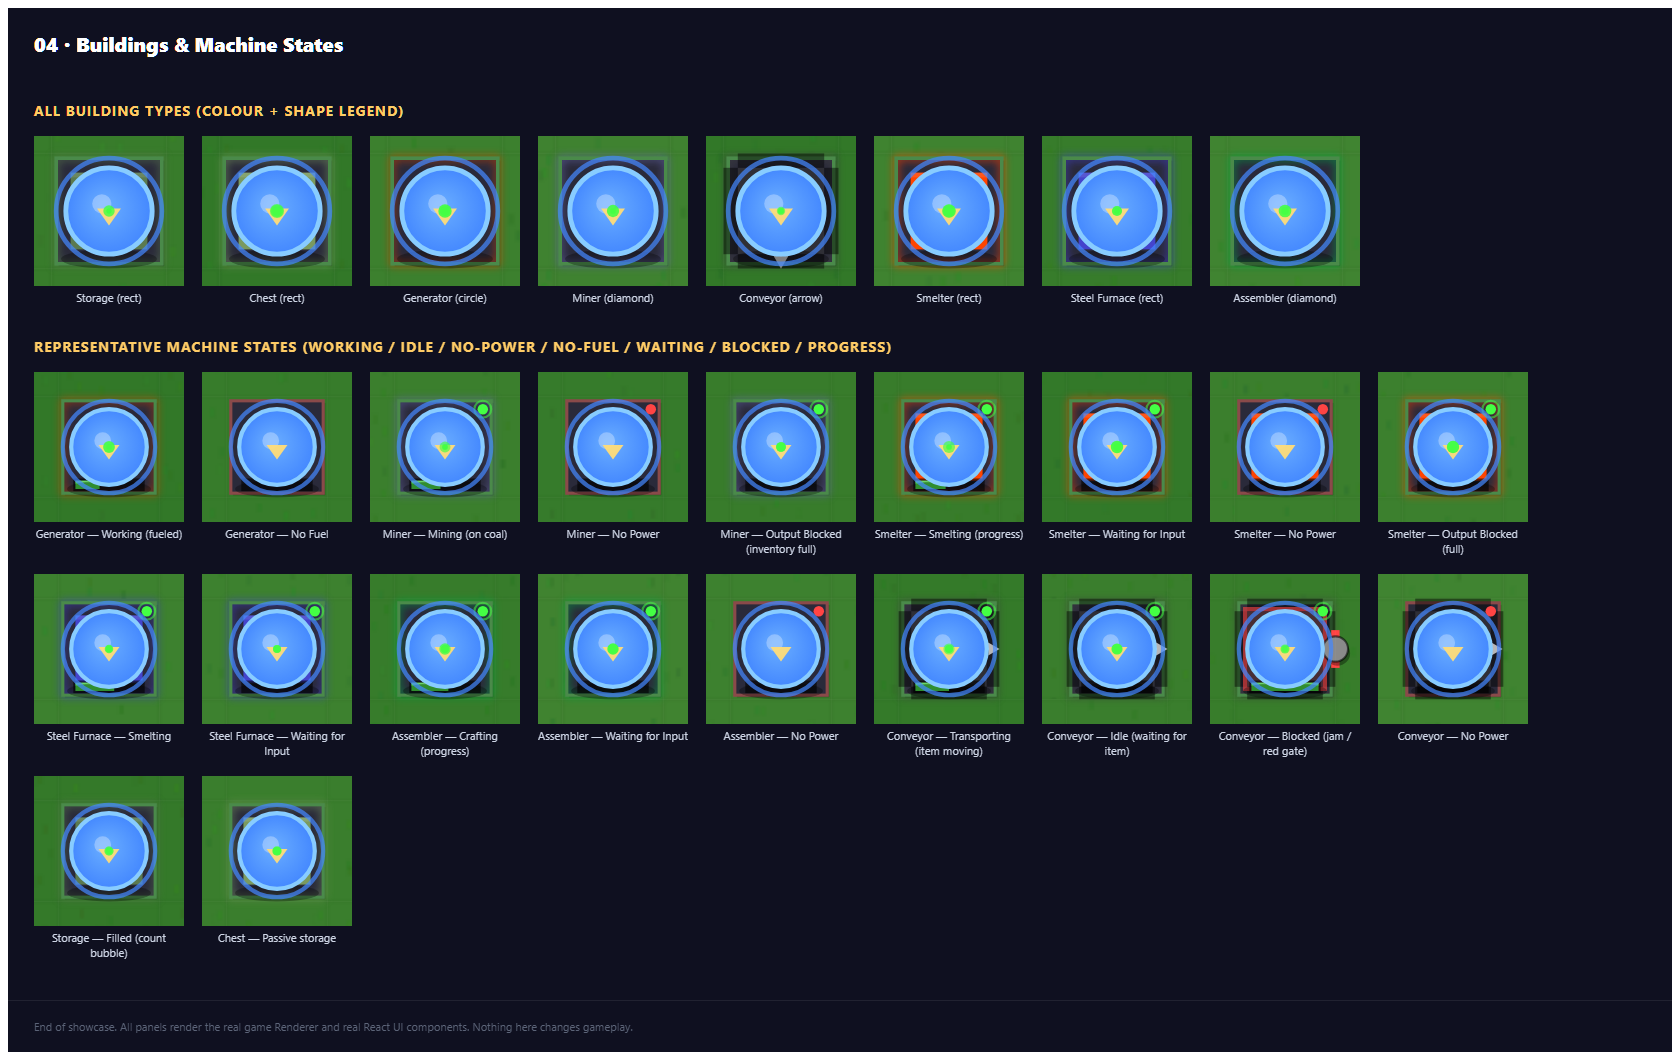
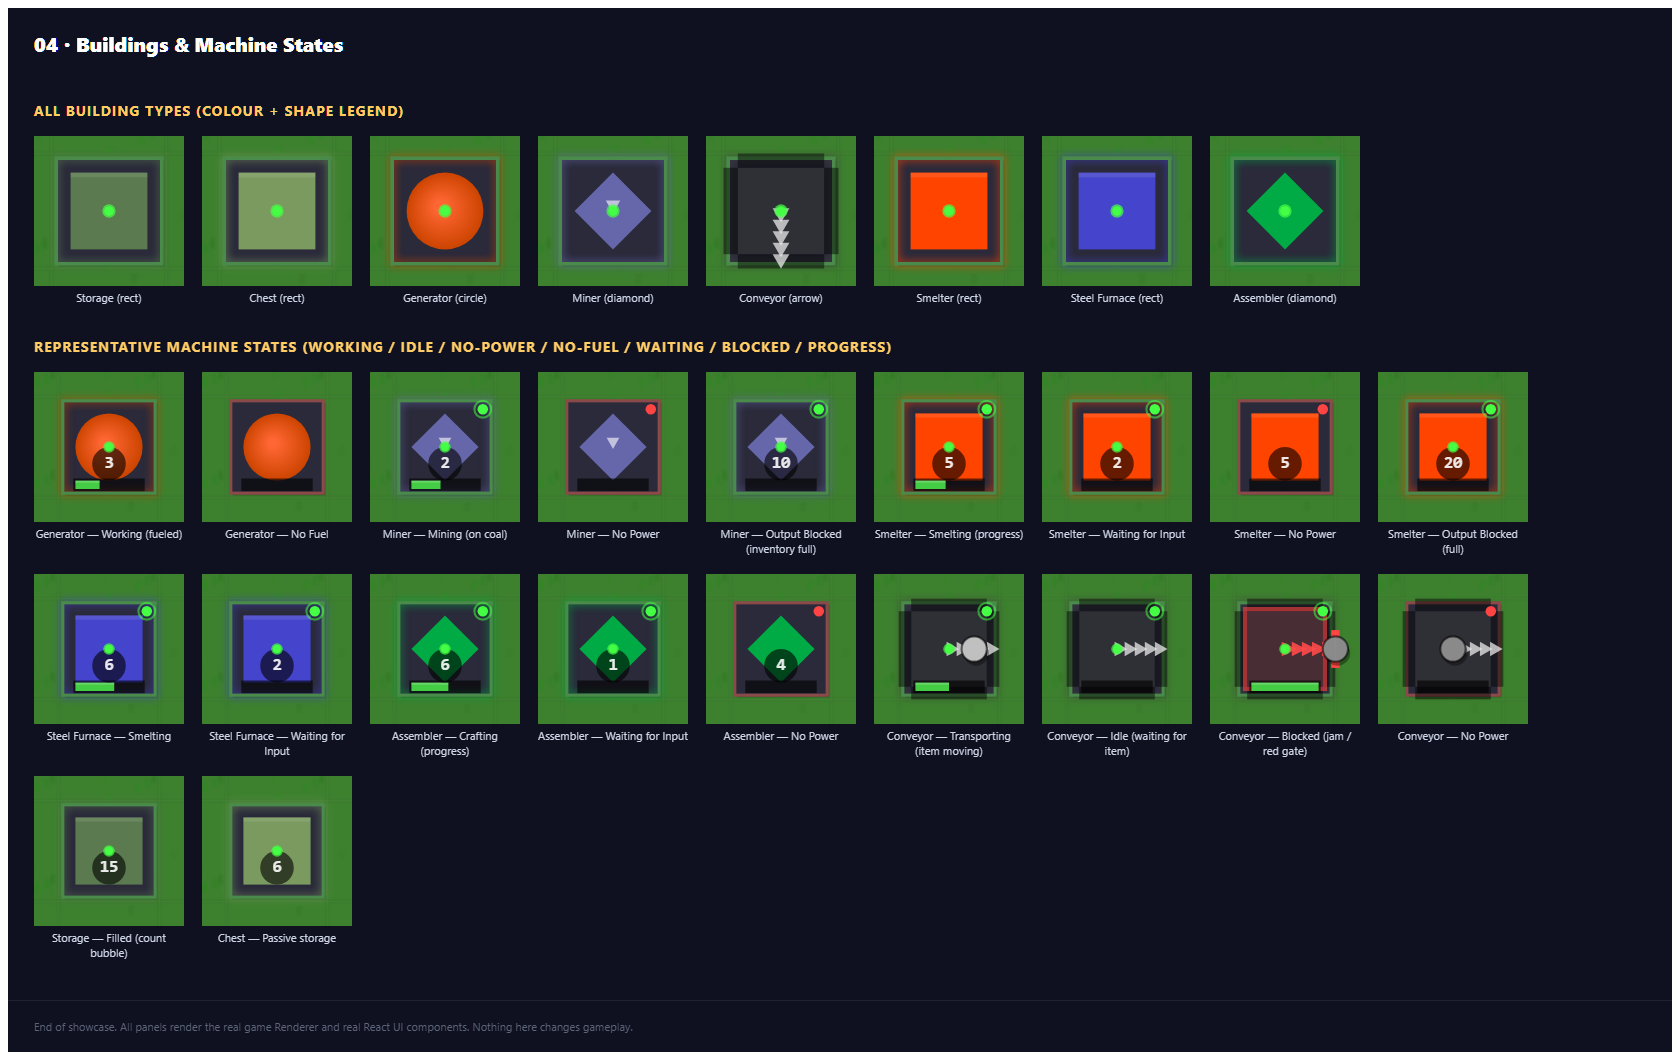
fix(design-handoff): isolate player from showcase boards and make screenshots bit-deterministic
- Renderer: gate player drawing behind showPlayer option; seed cosmetic
  terrain and particle PRNGs (LcgRandom) so rendering is reproducible
- scenes.ts: isolatedOptions/gameplayOptions helpers keep exposed boards
  player-free while gameplay/preview scenes keep the player
- showcase.tsx: wire options per swatch/frame; label the player example;
  stamp data-show-player on canvases for scripted verification
- capture-showcase.mjs: CAPTURE filter + player-isolation verification
- tests: regression suite verifying isolation contract
- regenerate all 10 screenshots (identical across repeated captures)

diff --git a/outpost/src/showcase/showcase.tsx b/outpost/src/showcase/showcase.tsx
@@ -27,6 +27,8 @@ import {
   frameBoard,
   frameTile,
   showcaseOptions,
+  isolatedOptions,
+  gameplayOptions,
 } from './scenes';
 import { Dir, BUILDING_NAMES, BUILDING_DEFS, ITEM_COLORS } from '../types';
 import type { Item, PowerSummary, DirectionValue } from '../types';
@@ -62,7 +64,11 @@ function WorldCanvas({
     canvas.height = height;
     const renderer = new Renderer(canvas);
     const { engine, camera, options } = buildScene();
-    renderer.render(engine.map, engine.player, camera, options ?? showcaseOptions());
+    const resolved = options ?? showcaseOptions();
+    renderer.render(engine.map, engine.player, camera, resolved);
+    // Deterministic marker for the screenshot script / QA: records whether this
+    // canvas rendered the player (true) or is an isolated asset board (false).
+    canvas.dataset.showPlayer = String(resolved.showPlayer !== false);
   }, [width, height, buildScene]);
   return <canvas ref={ref} style={{ display: 'block', imageRendering: 'pixelated' }} />;
 }
@@ -74,17 +80,19 @@ function Swatch({
   width = 150,
   height = 150,
   zoom = 2.4,
+  options,
 }: {
   build: (e: GameEngine) => void;
   caption: string;
   width?: number;
   height?: number;
   zoom?: number;
+  options?: RenderOptions;
 }) {
   const scene = () => {
     const e = makeEngine();
     build(e);
-    return { engine: e, camera: frameTile(60, 60, zoom, width, height), options: showcaseOptions() };
+    return { engine: e, camera: frameTile(60, 60, zoom, width, height), options: isolatedOptions(options) };
   };
   return (
     <figure style={{ margin: 0, display: 'flex', flexDirection: 'column', alignItems: 'center', gap: 4 }}>
@@ -117,7 +125,7 @@ function TileBoard({
     const e = makeEngine();
     clearBox(e, origin.x, origin.y, cols, rows);
     setup(e);
-    return { engine: e, camera, options: { ...showcaseOptions(), ...(options ?? {}) } };
+    return { engine: e, camera, options: isolatedOptions(options) };
   };
   return (
     <figure style={{ margin: 0, display: 'flex', flexDirection: 'column', alignItems: 'center', gap: 4 }}>
@@ -158,7 +166,7 @@ function Stage({
       }}
     >
       {scene && (
-        <WorldCanvas buildScene={() => ({ engine: scene.engine, camera: scene.camera, options: showcaseOptions() })} width={width} height={height} />
+        <WorldCanvas buildScene={() => ({ engine: scene.engine, camera: scene.camera, options: gameplayOptions() })} width={width} height={height} />
       )}
       {children}
     </div>
@@ -178,11 +186,11 @@ function Section({ id, title, children }: { id: string; title: string; children:
   );
 }
 
-function SwatchRow({ items }: { items: { caption: string; build: (e: GameEngine) => void; zoom?: number; width?: number; height?: number }[] }) {
+function SwatchRow({ items }: { items: { caption: string; build: (e: GameEngine) => void; zoom?: number; width?: number; height?: number; options?: RenderOptions }[] }) {
   return (
     <div style={{ display: 'flex', flexWrap: 'wrap', gap: 18 }}>
       {items.map((it, i) => (
-        <Swatch key={i} build={it.build} caption={it.caption} zoom={it.zoom} width={it.width} height={it.height} />
+        <Swatch key={i} build={it.build} caption={it.caption} zoom={it.zoom} width={it.width} height={it.height} options={it.options} />
       ))}
     </div>
   );
@@ -359,7 +367,7 @@ function ConveyorLegendRow() {
         const scene = () => {
           const e = makeEngine();
           put(e, x, 60, makeBuilding('conveyor', { active: true, powerConsumed: 1, direction: d, maxProgress: 12, progress: 6, inventory: [{ type: 'stone', amount: 1 }] }));
-          return { engine: e, camera: frameTile(x, 60, 2.4, 150, 150), options: showcaseOptions() };
+          return { engine: e, camera: frameTile(x, 60, 2.4, 150, 150), options: isolatedOptions() };
         };
         return (
           <figure key={i} style={{ margin: 0, display: 'flex', flexDirection: 'column', alignItems: 'center', gap: 4 }}>
@@ -419,7 +427,7 @@ function Showcase() {
     return {
       engine: e,
       camera: frameTile(56, 56, 1.6, CONSTRUCTION_W, CONSTRUCTION_H),
-      options: { ...showcaseOptions(), buildPreview: { x: 56, y: 56 }, buildColor: BUILDING_DEFS['miner'].color, buildValid: true, buildDirection: Dir.Down },
+      options: gameplayOptions({ buildPreview: { x: 56, y: 56 }, buildColor: BUILDING_DEFS['miner'].color, buildValid: true, buildDirection: Dir.Down }),
     };
   };
 
@@ -431,13 +439,12 @@ function Showcase() {
     return {
       engine: e,
       camera: frameTile(56, 56, 1.6, CONSTRUCTION_W, CONSTRUCTION_H),
-      options: {
-        ...showcaseOptions(),
+      options: gameplayOptions({
         buildPreview: { x: 56, y: 56 },
         buildColor: BUILDING_DEFS['miner'].color,
         buildValid: false,
         buildDirection: Dir.Down,
-      },
+      }),
     };
   };
 
@@ -451,7 +458,7 @@ function Showcase() {
     put(e, 56, 56, makeBuilding('assembler', { active: true, powerConsumed: 15, maxProgress: 80, progress: 22, inventory: [{ type: 'copper', amount: 4 }] }));
     const origin = { x: 52, y: 52 };
     const { camera, width, height } = frameBoard(origin, 6, 6, 1.4, 24);
-    return { engine: e, camera, width: Math.round(width), height: Math.round(height) };
+    return { engine: e, camera, width: Math.round(width), height: Math.round(height), options: gameplayOptions() };
   };
 
   const terrainBoard = () => {
@@ -470,7 +477,7 @@ function Showcase() {
     for (const { x, y, terrain } of t) setTerrain(e, x, y, terrain);
     const origin = { x: 54, y: 55 };
     const { camera, width, height } = frameBoard(origin, 4, 9, 1.6, 20);
-    return { engine: e, camera, width: Math.round(width), height: Math.round(height) };
+    return { engine: e, camera, width: Math.round(width), height: Math.round(height), options: isolatedOptions() };
   };
 
   const resourceBoard = () => {
@@ -486,7 +493,7 @@ function Showcase() {
     for (const d of deposits) setResource(e, d.x, d.y, d.type, d.amount);
     const origin = { x: 53, y: 55 };
     const { camera, width, height } = frameBoard(origin, 6, 10, 1.5, 20);
-    return { engine: e, camera, width: Math.round(width), height: Math.round(height) };
+    return { engine: e, camera, width: Math.round(width), height: Math.round(height), options: isolatedOptions() };
   };
 
 
@@ -580,6 +587,21 @@ function Showcase() {
               {it.name}
             </span>
           ))}
+        </div>
+        <GroupTitle>Player (only shown here + in gameplay scenes)</GroupTitle>
+        <div data-player-example>
+          <SwatchRow
+            items={[
+              {
+                caption: 'Player — default skin, facing down',
+                options: { showPlayer: true },
+                build: (e) => {
+                  // The player sprite is placed at the board centre by makeEngine.
+                  void e;
+                },
+              },
+            ]}
+          />
         </div>
       </Section>
 

diff --git a/outpost/src/rendering/Renderer.ts b/outpost/src/rendering/Renderer.ts
@@ -37,6 +37,15 @@ export interface RenderOptions {
   facing?: DirectionValue;
   /** Hide the bottom-right minimap (used by the dev-only visual showcase). */
   showMinimap?: boolean;
+  /**
+   * Hide the player sprite (defaults to shown).
+   *
+   * Used by the dev-only Visual Showcase to keep isolated asset boards
+   * (terrain / resource / building swatches) free of the player sprite so each
+   * swatch demonstrates exactly one asset/state. Production gameplay never
+   * sets this, so the player renders as usual.
+   */
+  showPlayer?: boolean;
 }
 
 interface Particle {
@@ -54,6 +63,21 @@ interface ConveyorAnim {
   offset: number;
 }
 
+/** Deterministic Park-Miller LCG (same scheme as the game-world PRNG). */
+class LcgRandom {
+  private seed: number;
+
+  constructor(seed: number) {
+    this.seed = seed % 2147483647;
+    if (this.seed <= 0) this.seed += 2147483646;
+  }
+
+  next(): number {
+    this.seed = (this.seed * 16807) % 2147483647;
+    return (this.seed - 1) / 2147483646;
+  }
+}
+
 export class Renderer {
   private canvas: HTMLCanvasElement;
   private ctx: CanvasRenderingContext2D;
@@ -63,6 +87,19 @@ export class Renderer {
   private lastTickBuildings: Map<string, boolean> = new Map();
   private conveyorAnims: Map<string, ConveyorAnim> = new Map();
   private waterTime = 0;
+
+  /**
+   * Deterministic PRNG used ONLY for cosmetic terrain-tile texture generation
+   * (grass/sand base shade + speckles). Gameplay is unaffected; this makes each
+   * Renderer instance produce identical tile art so screenshots are reproducible.
+   */
+  private terrainRand = new LcgRandom(987654321);
+
+  /**
+   * Deterministic PRNG for cosmetic particle spawns (velocities, life, size).
+   * Gameplay feel is unchanged while keeping render output bit-reproducible.
+   */
+  private particleRand = new LcgRandom(135797531);
 
   constructor(canvas: HTMLCanvasElement) {
     this.canvas = canvas;
@@ -81,12 +118,12 @@ export class Renderer {
 
       switch (terrain) {
         case 'grass': {
-          const shade = Math.random() * 0.15;
+          const shade = this.terrainRand.next() * 0.15;
           ctx.fillStyle = `rgb(${50 + shade * 100}, ${120 + shade * 80}, ${40 + shade * 60})`;
           ctx.fillRect(0, 0, TILE_SIZE, TILE_SIZE);
           for (let i = 0; i < 8; i++) {
-            ctx.fillStyle = `rgba(${30 + Math.random() * 30}, ${100 + Math.random() * 50}, ${20 + Math.random() * 30}, 0.3)`;
-            ctx.fillRect(Math.random() * TILE_SIZE, Math.random() * TILE_SIZE, 2, 4);
+            ctx.fillStyle = `rgba(${30 + this.terrainRand.next() * 30}, ${100 + this.terrainRand.next() * 50}, ${20 + this.terrainRand.next() * 30}, 0.3)`;
+            ctx.fillRect(this.terrainRand.next() * TILE_SIZE, this.terrainRand.next() * TILE_SIZE, 2, 4);
           }
           ctx.strokeStyle = 'rgba(0,0,0,0.1)';
           ctx.lineWidth = 0.5;
@@ -115,9 +152,9 @@ export class Renderer {
           ctx.fillStyle = '#c4a35a';
           ctx.fillRect(0, 0, TILE_SIZE, TILE_SIZE);
           for (let i = 0; i < 5; i++) {
-            ctx.fillStyle = `rgba(${180 + Math.random() * 40}, ${160 + Math.random() * 30}, ${80 + Math.random() * 40}, 0.3)`;
+            ctx.fillStyle = `rgba(${180 + this.terrainRand.next() * 40}, ${160 + this.terrainRand.next() * 30}, ${80 + this.terrainRand.next() * 40}, 0.3)`;
             ctx.beginPath();
-            ctx.arc(Math.random() * TILE_SIZE, Math.random() * TILE_SIZE, 2, 0, Math.PI * 2);
+            ctx.arc(this.terrainRand.next() * TILE_SIZE, this.terrainRand.next() * TILE_SIZE, 2, 0, Math.PI * 2);
             ctx.fill();
           }
           ctx.strokeStyle = 'rgba(0,0,0,0.1)';
@@ -170,12 +207,12 @@ export class Renderer {
       this.particles.push({
         x,
         y,
-        vx: (Math.random() - 0.5) * 2,
-        vy: -Math.random() * 2 - 0.5,
-        life: 30 + Math.random() * 20,
+        vx: (this.particleRand.next() - 0.5) * 2,
+        vy: -this.particleRand.next() * 2 - 0.5,
+        life: 30 + this.particleRand.next() * 20,
         maxLife: 50,
         color,
-        size: 1 + Math.random() * 2,
+        size: 1 + this.particleRand.next() * 2,
       });
     }
   }
@@ -305,8 +342,10 @@ export class Renderer {
     // the machines they power. Makes the shared-grid concept tangible.
     this.drawPowerLinks(map, startTileX, startTileY, endTileX, endTileY);
 
-    // Render player
-    this.drawPlayer(player.x, player.y, facing ?? player.facing);
+    // Render player (hidden on the dev-only isolated asset boards via showPlayer:false)
+    if (options.showPlayer !== false) {
+      this.drawPlayer(player.x, player.y, facing ?? player.facing);
+    }
 
     // Render particles
     this.drawParticles();

diff --git a/outpost/src/tests/showcaseIsolation.test.ts b/outpost/src/tests/showcaseIsolation.test.ts
@@ -1,0 +1,53 @@
+import { describe, it, expect } from 'vitest';
+import { makeEngine, isolatedOptions, gameplayOptions, showcaseOptions } from '../showcase/scenes';
+import { Dir } from '../types';
+
+/**
+ * Regression guard for the "player covers isolated asset swatches" defect.
+ *
+ * Swatches (terrain / resource / building / machine-state boards) must never
+ * render the player, while gameplay-style scenes (populated base, construction,
+ * inspection, HUD) keep the player exactly as normal play does.
+ */
+describe('showcase isolation options', () => {
+  it('isolated asset boards disable the player sprite', () => {
+    const opts = isolatedOptions();
+    expect(opts.showPlayer).toBe(false);
+  });
+
+  it('gameplay-style scenes enable the player sprite', () => {
+    const opts = gameplayOptions();
+    expect(opts.showPlayer).toBe(true);
+  });
+
+  it('isolated boards keep the minimap hidden', () => {
+    const opts = isolatedOptions();
+    expect(opts.showMinimap).toBe(false);
+  });
+
+  it('gameplay scenes keep the minimap hidden (showcase)', () => {
+    const opts = gameplayOptions();
+    expect(opts.showMinimap).toBe(false);
+  });
+
+  it('isolatedOptions can be overridden to explicitly show the player (labeled example)', () => {
+    const opts = isolatedOptions({ showPlayer: true });
+    expect(opts.showPlayer).toBe(true);
+  });
+
+  it('the neutral showcase fallback does not disable the player', () => {
+    // WorldCanvas falls back to showcaseOptions() when a scene omits options;
+    // it must NOT hide the player, or gameplay scenes would lose it.
+    expect(showcaseOptions().showPlayer).toBeUndefined();
+  });
+
+  it('makeEngine places the player on the asset board centre (why isolation is required)', () => {
+    // Documents the root cause: asset swatches are built around tile (60,60),
+    // which is exactly where makeEngine spawns the player — so isolation is
+    // mandatory or the player covers the swatch.
+    const e = makeEngine();
+    expect(e.player.x).toBe(60);
+    expect(e.player.y).toBe(60);
+    expect(e.player.facing).toBe(Dir.Down);
+  });
+});

diff --git a/outpost/src/showcase/scenes.ts b/outpost/src/showcase/scenes.ts
@@ -110,3 +110,20 @@ export function frameTile(x: number, y: number, zoom: number, width: number, hei
 export function showcaseOptions(): RenderOptions {
   return { showMinimap: false };
 }
+
+/**
+ * Render options for an ISOLATED asset board (a terrain / resource / building /
+ * machine-state swatch). The player sprite is disabled so each swatch shows exactly
+ * the one asset/state it is labelled with and is never covered by the player.
+ */
+export function isolatedOptions(extra: RenderOptions = {}): RenderOptions {
+  return { ...showcaseOptions(), showPlayer: false, ...extra };
+}
+
+/**
+ * Render options for a GAMEPLAY-style scene (populated base, construction mode,
+ * inspection, HUD). The player sprite is enabled, exactly as in normal play.
+ */
+export function gameplayOptions(extra: RenderOptions = {}): RenderOptions {
+  return { ...showcaseOptions(), showPlayer: true, ...extra };
+}
